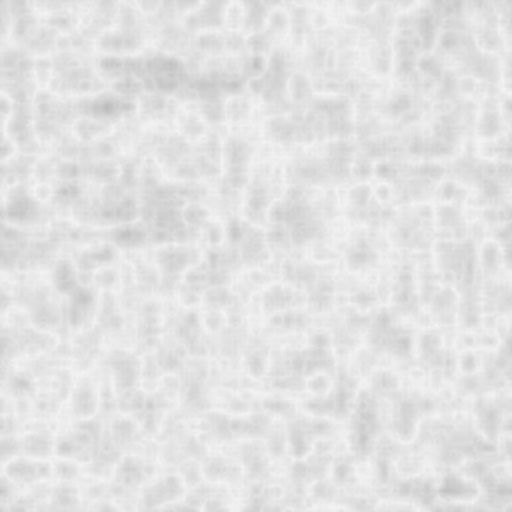
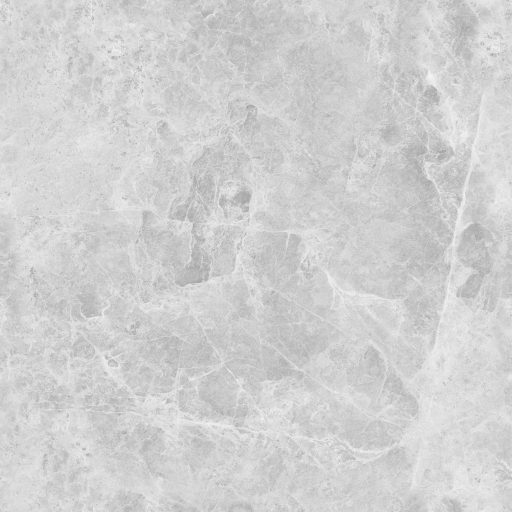
케이히스토리 표면 텍스처: 절차 세트 → Poly Haven CC0 스캔(rock_face_03·forrest_ground_01·sparse_grass·bark_willow_02) 1K 웹용으로 교체, 구석기 타일·틴트 재조정

diff --git a/kworld/core/visuals.js b/kworld/core/visuals.js
@@ -140,7 +140,7 @@ const _texCache = new Map();
 function loadSet(name, tile) {
   const key = name + ':' + tile; if (_texCache.has(key)) return _texCache.get(key);
   const L = new THREE.TextureLoader(); const mk = (f, srgb) => { const t = L.load(`/kworld/tex/${name}_${f}`); t.wrapS = t.wrapT = THREE.RepeatWrapping; if (srgb) t.colorSpace = THREE.SRGBColorSpace; t.anisotropy = 8; return t; };
-  const set = { map: mk('albedo.jpg', true), normalMap: mk('normal.png'), roughnessMap: mk('rough.jpg'), tile };
+  const set = { map: mk('albedo.jpg', true), normalMap: mk('normal.jpg'), roughnessMap: mk('rough.jpg'), tile };
   _texCache.set(key, set); return set;
 }
 export function boxProjectUV(geo, tile) {

diff --git a/kworld/tools/gen_textures.py b/kworld/tools/gen_textures.py
@@ -1,5 +1,5 @@
 """케이히스토리 표면 텍스처 생성기 — 사진 없이 타일링 PBR(albedo·normal·roughness)을 만든다.
-python3 kworld/tools/gen_textures.py  → kworld/tex/<name>_{albedo.jpg,normal.png,rough.jpg}
+python3 kworld/tools/gen_textures.py  → kworld/tex/<name>_{albedo.jpg,normal.jpg,rough.jpg} (스캔 텍스처가 없을 때의 대체품; 현재 tex/ 는 Poly Haven CC0 스캔)
 """
 import numpy as np, os
 from PIL import Image
@@ -52,7 +52,7 @@ def save(name, albedo, height, rough, hstrength):
     os.makedirs(OUT, exist_ok=True)
     Image.fromarray((np.clip(albedo, 0, 1) * 255).astype(np.uint8)).save(f'{OUT}/{name}_albedo.jpg', quality=86, optimize=True)
     nm = normal_from_height(height, hstrength)
-    Image.fromarray((np.clip(nm, 0, 1) * 255).astype(np.uint8)).resize((N // 2, N // 2), Image.LANCZOS).save(f'{OUT}/{name}_normal.png', optimize=True)
+    Image.fromarray((np.clip(nm, 0, 1) * 255).astype(np.uint8)).resize((N // 2, N // 2), Image.LANCZOS).save(f'{OUT}/{name}_normal.jpg', quality=93)
     Image.fromarray((np.clip(rough, 0, 1) * 255).astype(np.uint8)).resize((N // 2, N // 2), Image.LANCZOS).save(f'{OUT}/{name}_rough.jpg', quality=80)
     print(name, 'ok')
 

diff --git a/kworld/tex/SOURCES.md b/kworld/tex/SOURCES.md
@@ -1,0 +1,6 @@
+# 표면 텍스처 출처 (모두 CC0, Poly Haven)
+- rock  ← rock_face_03      https://polyhaven.com/a/rock_face_03
+- grass ← forrest_ground_01 https://polyhaven.com/a/forrest_ground_01
+- dirt  ← sparse_grass      https://polyhaven.com/a/sparse_grass
+- bark  ← bark_willow_02    https://polyhaven.com/a/bark_willow_02
+원본 4K → 웹용 1K(albedo/normal jpg)·512(rough). 변환은 tools/gen_textures.py 옆 주석 참고.
